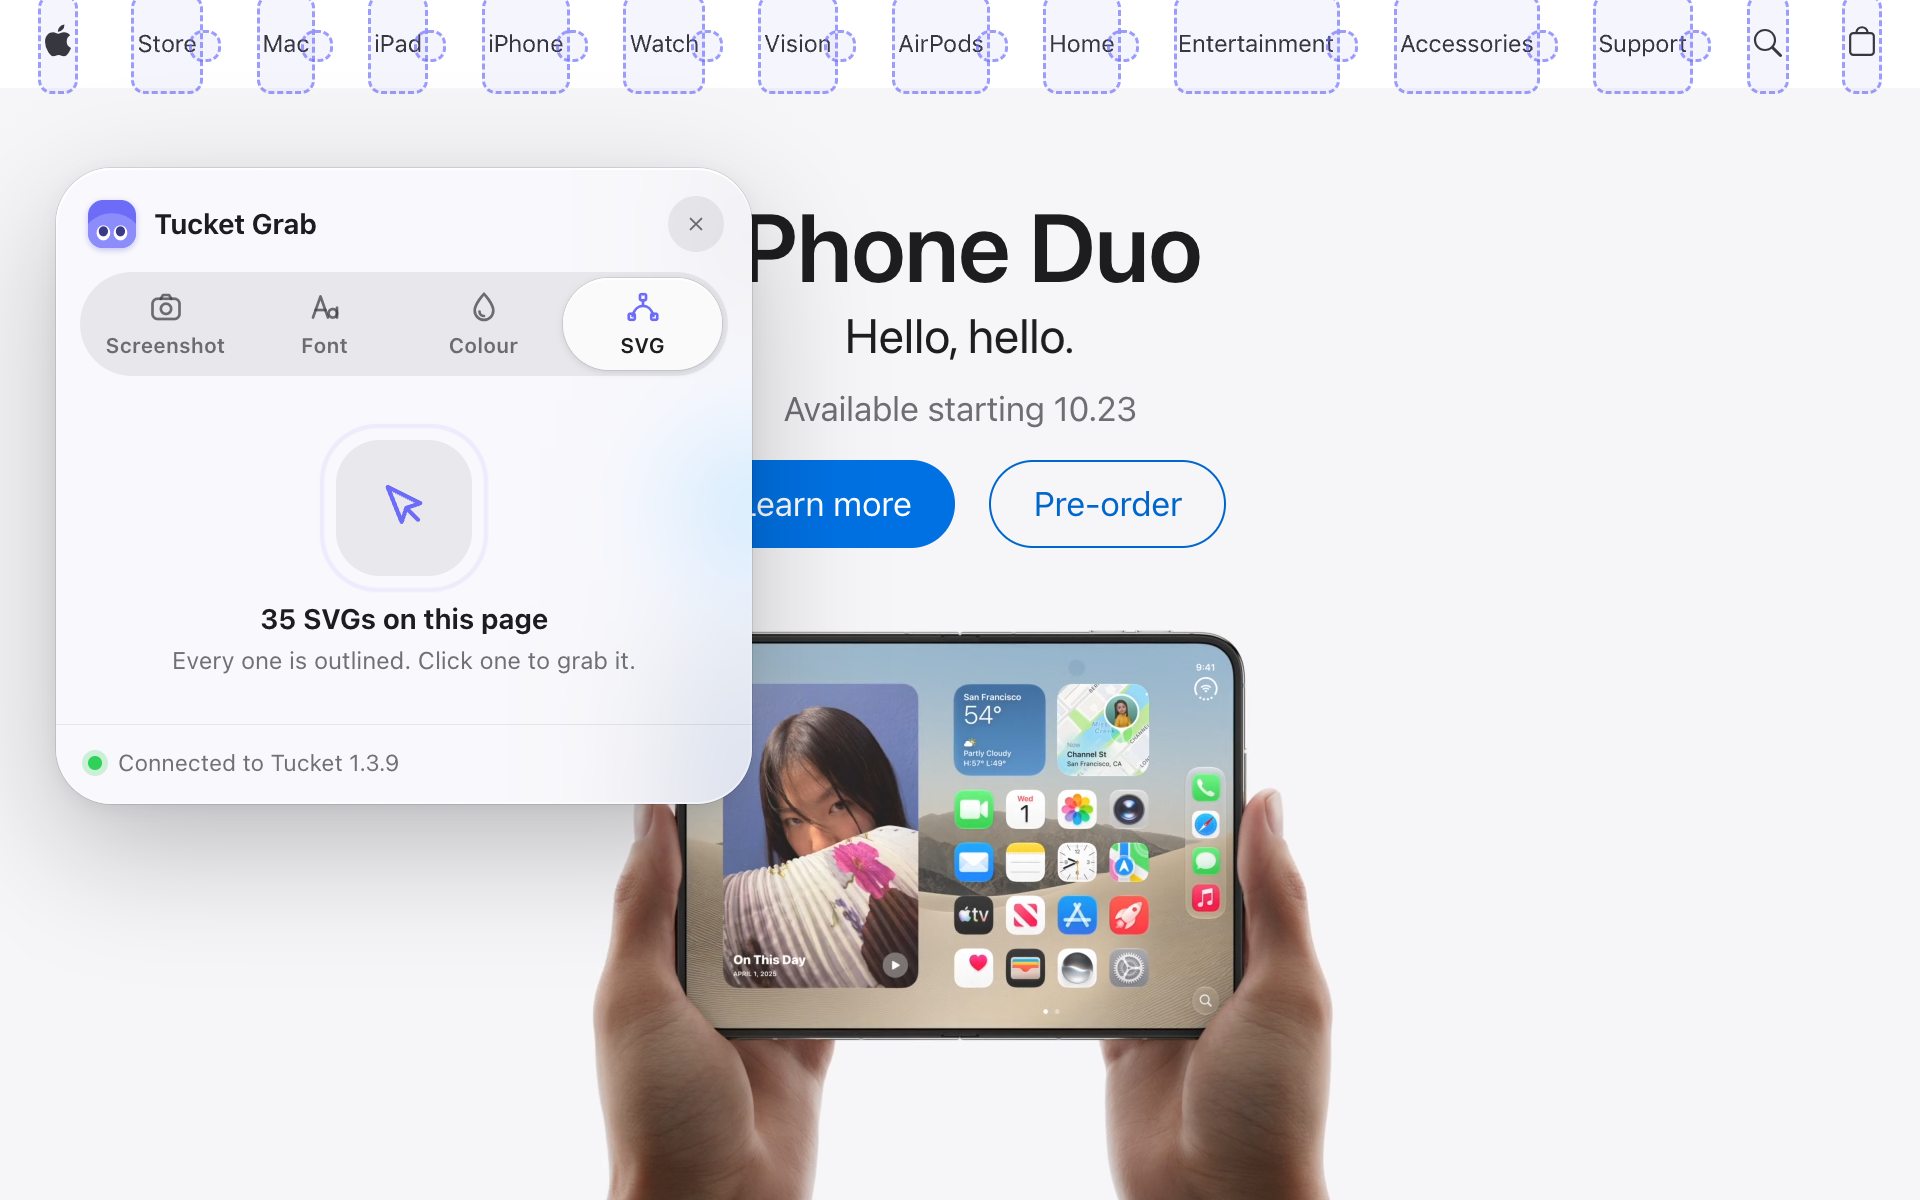
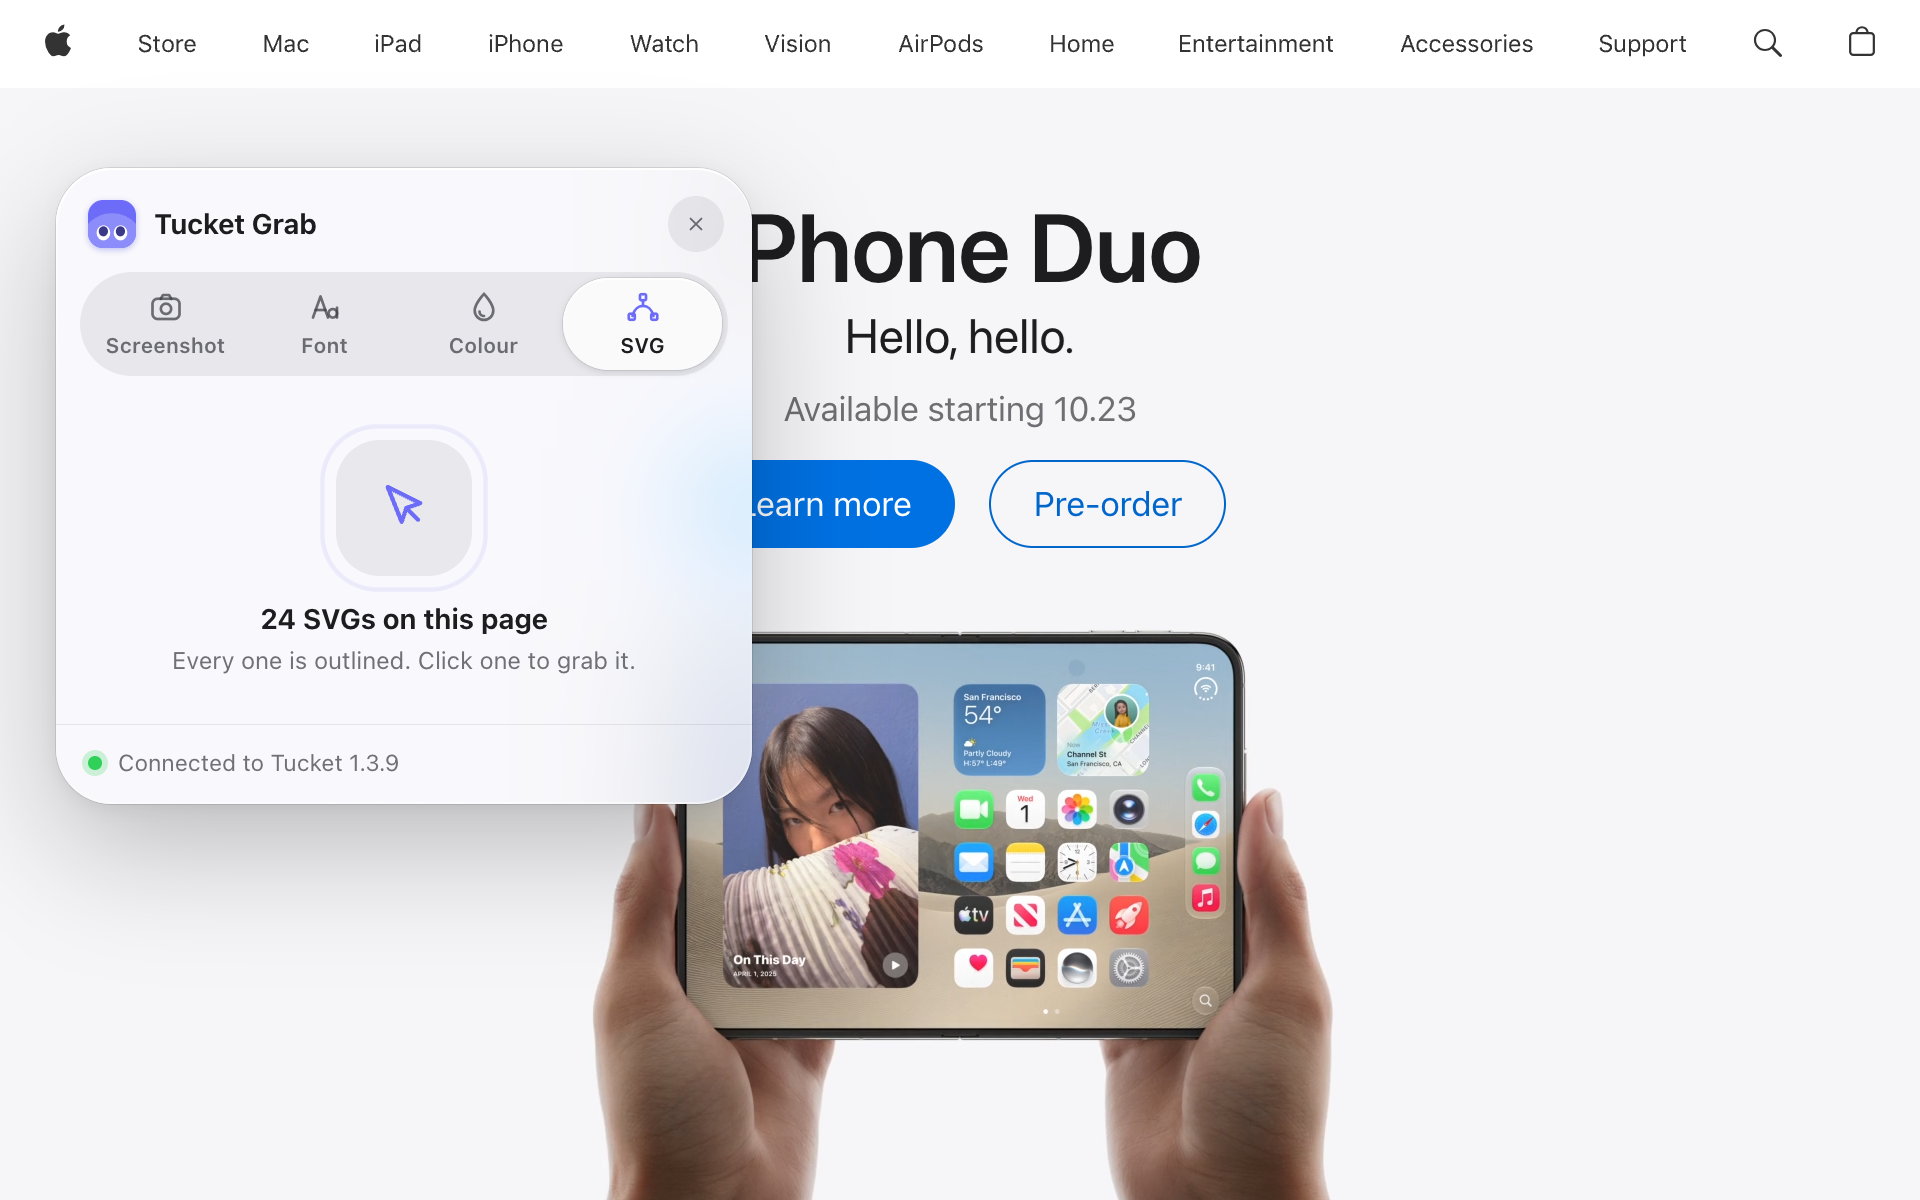
Don't outline SVGs that are faded out by a parent
A hover-only menu chevron (opacity 0 on a wrapper, as in Apple's nav) was outlined and
counted. Visibility now looks up the ancestors too. The apple.com store shot hides the
outlines on Apple's nav words for the slide.

diff --git a/src/content/svgs.js b/src/content/svgs.js
@@ -372,7 +372,7 @@
       if (items.length >= MAX_ITEMS) break;
       if (svg.parentElement?.closest('svg')) continue;
       const rect = svg.getBoundingClientRect();
-      const visible = rect.width > 0 && rect.height > 0 && getComputedStyle(svg).visibility !== 'hidden';
+      const visible = rect.width > 0 && rect.height > 0 && !faded(svg);
       const symbols = svg.querySelectorAll('symbol[id]');
       if (symbols.length && (!visible || isSpriteSheet(svg))) {
         for (const symbol of symbols) {
@@ -488,6 +488,20 @@
     return null;
   }
 
+  // Faded out by itself or an ancestor: a menu chevron that only appears on hover, an icon
+  // waiting for its animation. Nothing anyone can see, so it isn't outlined or listed.
+  function faded(el) {
+    let opacity = 1;
+    for (let node = el, depth = 0; node && node.nodeType === 1 && depth < 8; node = node.parentElement, depth++) {
+      const cs = getComputedStyle(node);
+      if (cs.visibility === 'hidden' || cs.display === 'none') return true;
+      opacity *= parseFloat(cs.opacity) || 0;
+      if (opacity < 0.05) return true;
+      if (node === document.body) break;
+    }
+    return false;
+  }
+
   /** The grabbable SVG at this element, climbing a few levels: { el, type, url? } or null. */
   function targetAt(start, point = null) {
     if (!(start instanceof Element)) return null;
@@ -528,8 +542,7 @@
       if (!el || seen.has(el)) return;
       const r = el.getBoundingClientRect();
       if (r.width < MIN_GHOST || r.height < MIN_GHOST) return;
-      const cs = getComputedStyle(el);
-      if (cs.visibility === 'hidden' || cs.display === 'none' || cs.opacity === '0') return;
+      if (faded(el)) return;
       seen.add(el);
       allTargets.push({ el, type, url });
     };

diff --git a/test/fixtures/svgs.html b/test/fixtures/svgs.html
@@ -63,5 +63,8 @@
   <button class="nav-bag" style="position: fixed; left: 20px; bottom: 20px; padding: 14px; border: 0; background: #eee; border-radius: 10px">
     <svg width="20" height="20" viewBox="0 0 20 20" style="pointer-events: none; display: block"><path d="M4 6h12l-1 11H5z" fill="#0EA5E9"/></svg>
   </button>
+  <!-- A submenu chevron that only appears on hover: its wrapper is faded out, so it's invisible
+       and must not be outlined. -->
+  <span class="faded-chevron" style="position: fixed; left: 120px; bottom: 26px; opacity: 0"><svg width="24" height="24" viewBox="0 0 24 24"><path d="m6 9 6 6 6-6" fill="none" stroke="#000" stroke-width="2"/></svg></span>
 </body>
 </html>
